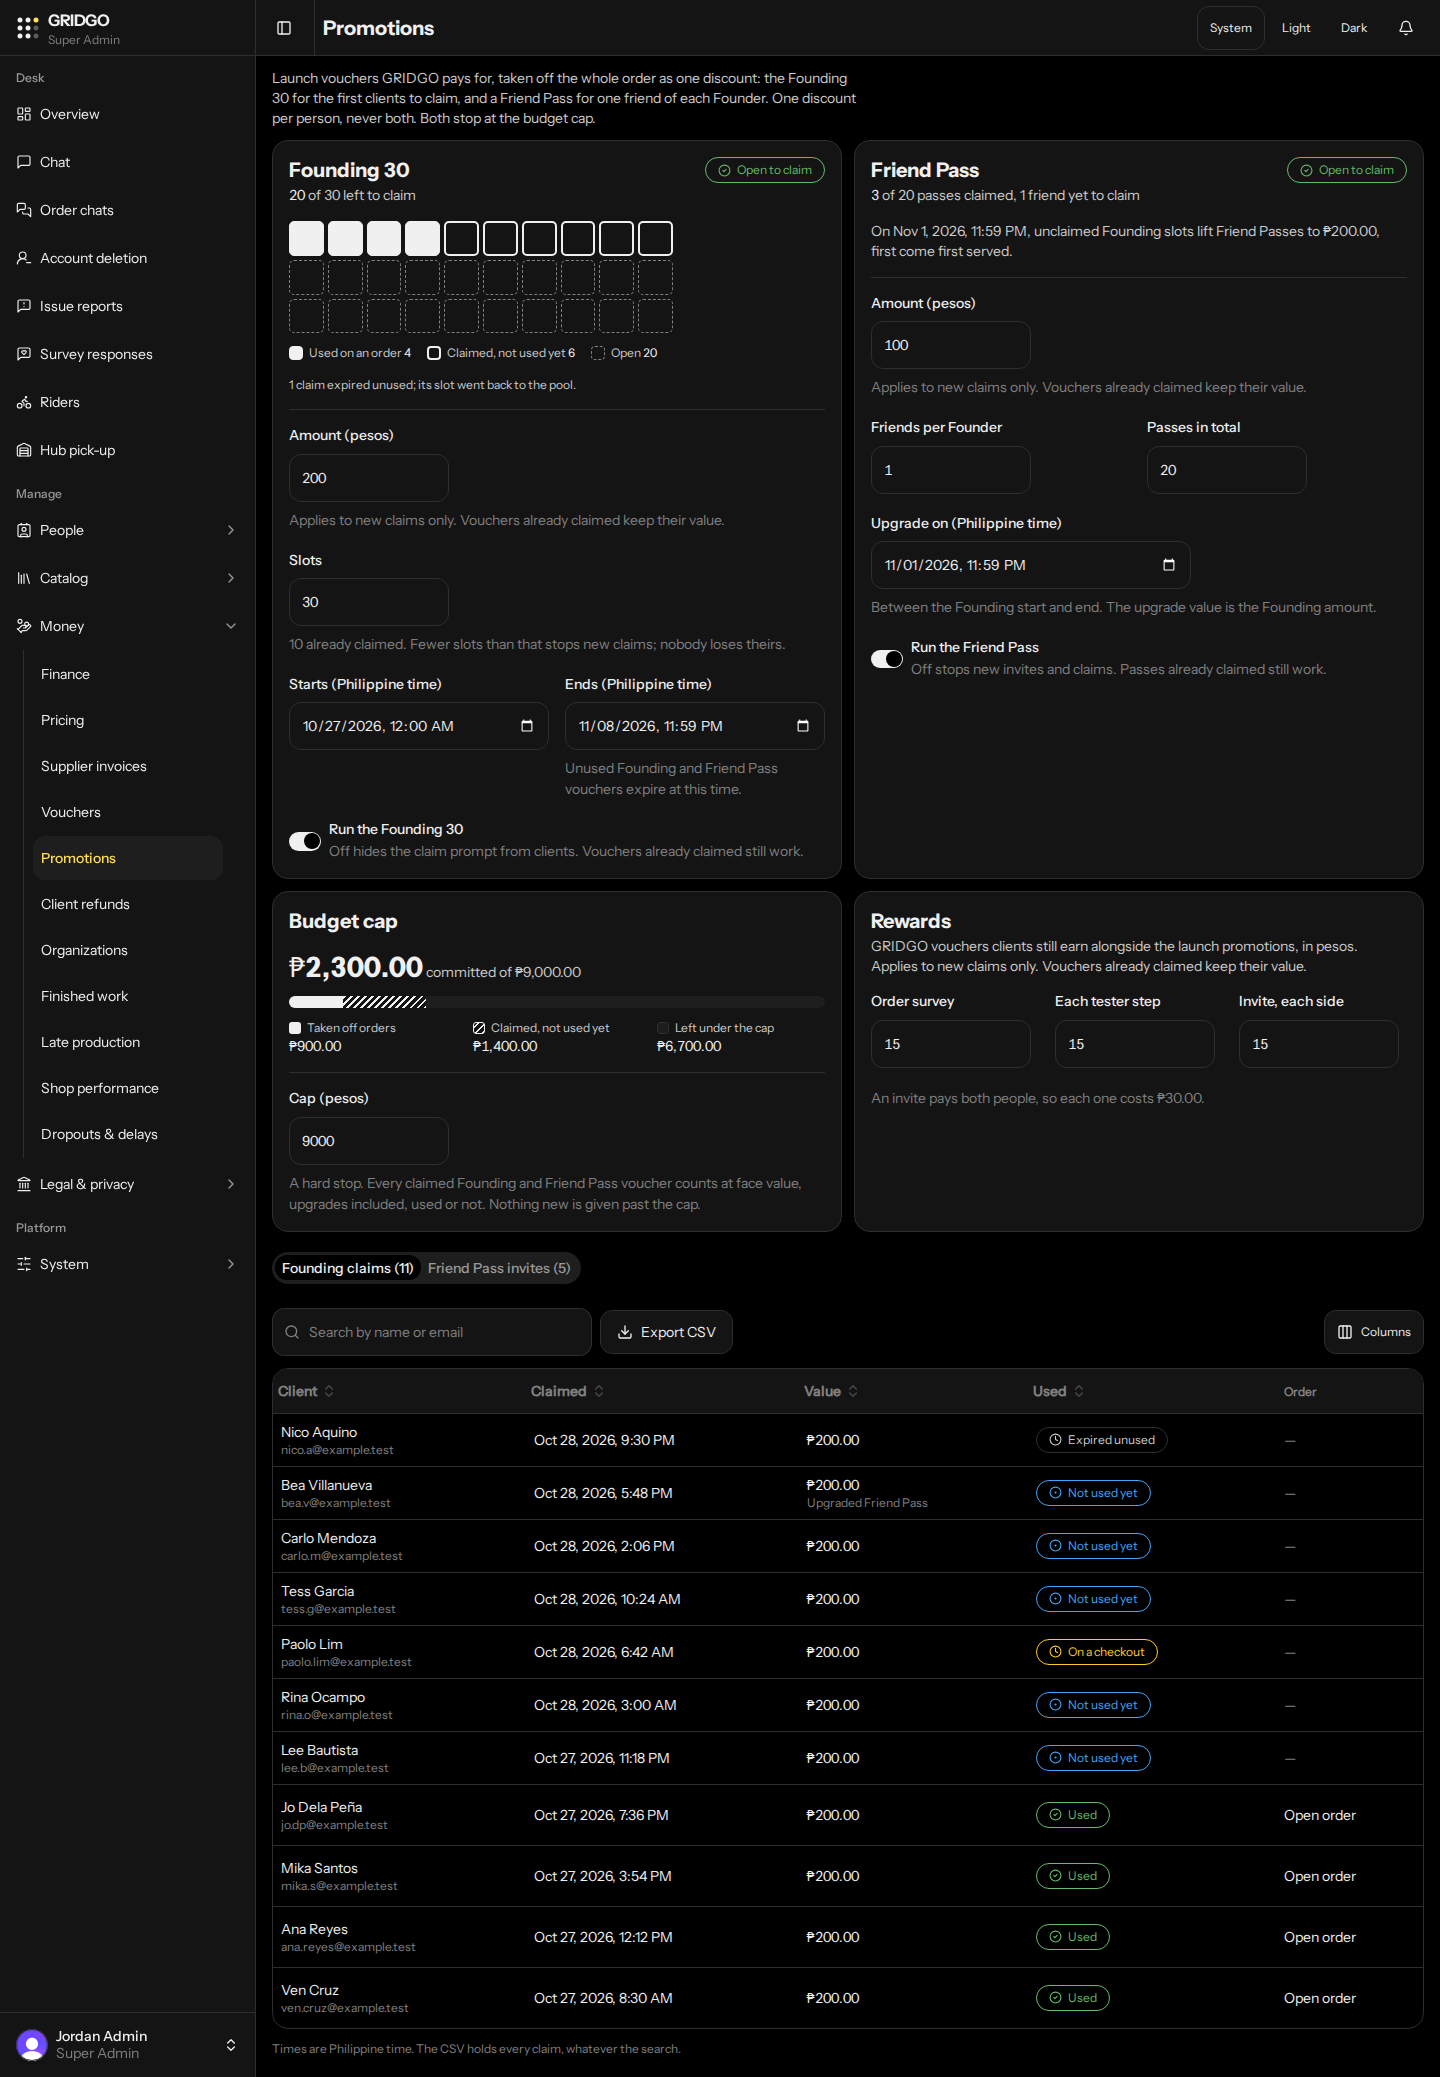
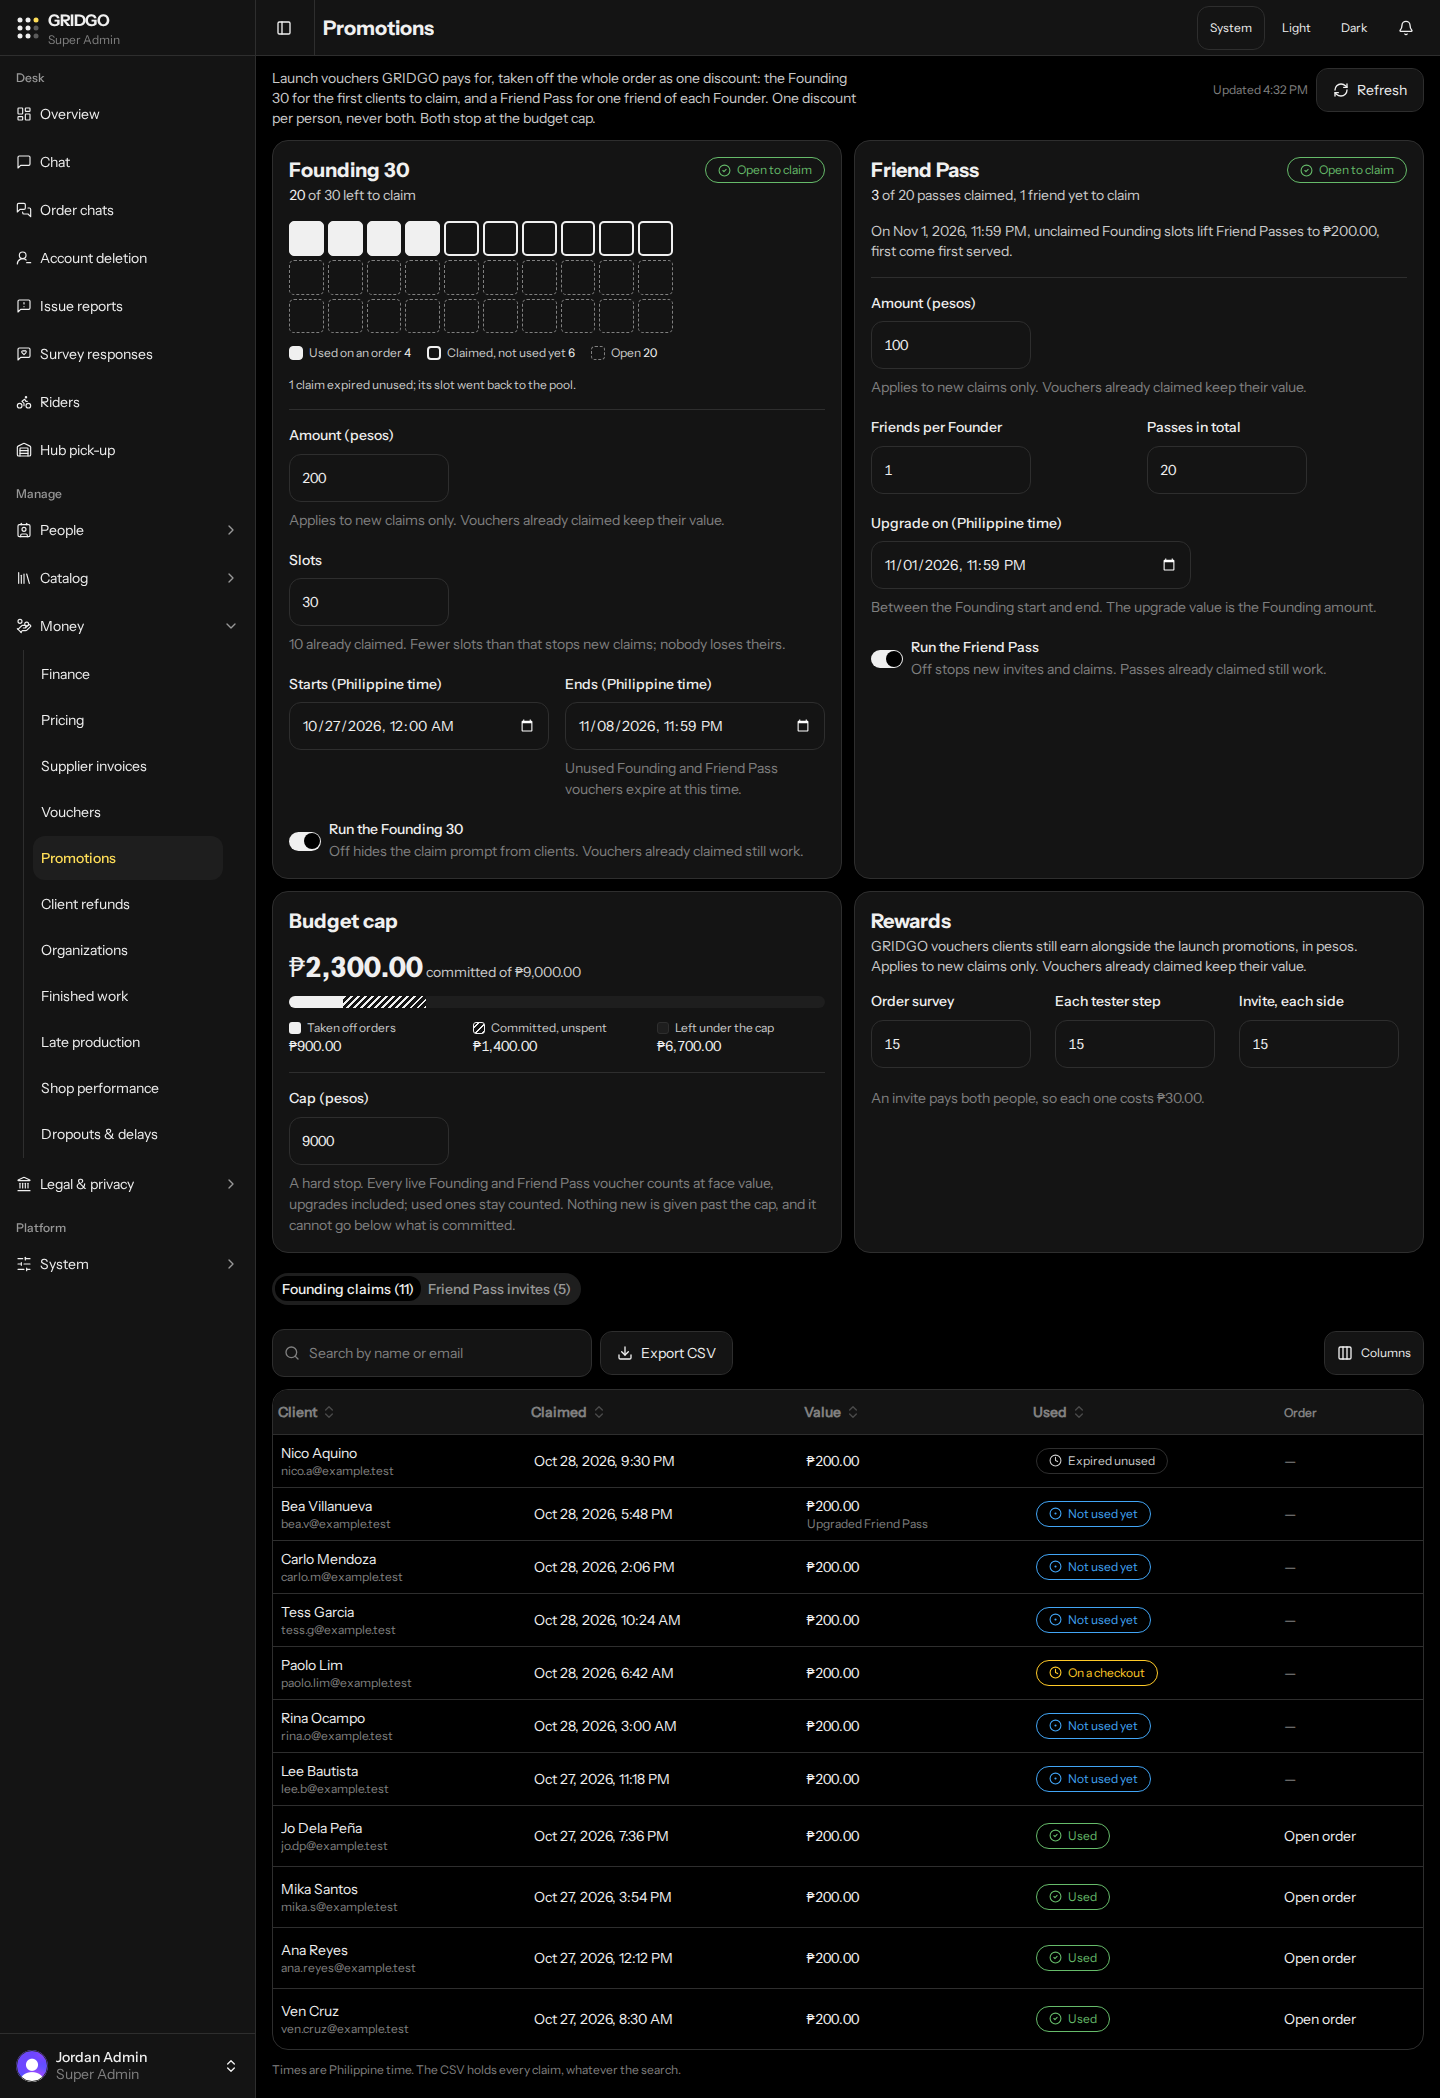
Promotions desk: shorter budget label, screenshots with Refresh

diff --git a/src/components/promotions/PromotionGauges.tsx b/src/components/promotions/PromotionGauges.tsx
@@ -95,7 +95,7 @@ export function BudgetMeter({ budget }: { budget: AdminPromotions["budget"] }) {
     },
     {
       key: "waiting",
-      label: "Committed, not taken off orders",
+      label: "Committed, unspent",
       value: waitingMinor,
       swatch: "gg-invoice-hatch text-text-primary border border-text-primary",
     },
